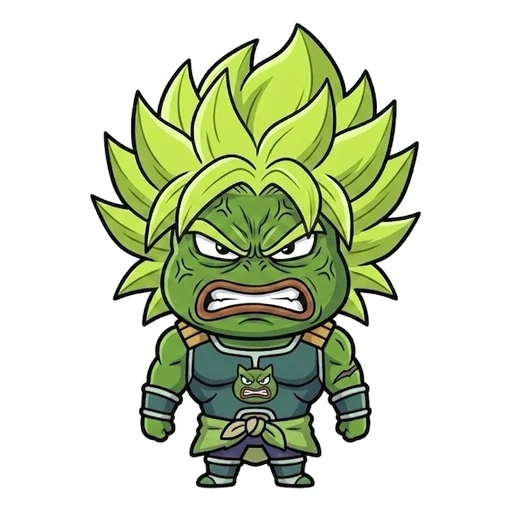
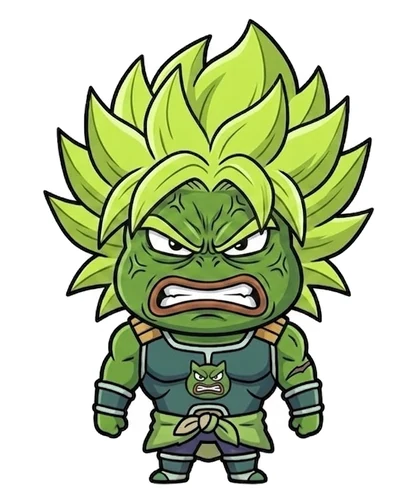
Add files via upload

diff --git a/index.html b/index.html
@@ -165,8 +165,8 @@ body.legendary .smash{color:#14260E}
   -webkit-user-select:all;user-select:all}
 
 /* fills the gap the tall nutrition label leaves in the left column */
-.inspector{margin-top:30px;max-width:250px}
-.inspector img{width:100%;height:auto;aspect-ratio:1;object-fit:contain;display:block}
+.inspector{margin-top:30px;max-width:285px}
+.inspector img{width:100%;height:auto;aspect-ratio:418/504;display:block}
 .inspector figcaption{font-family:'Space Mono',monospace;font-size:10px;line-height:1.5;
   letter-spacing:.1em;text-transform:uppercase;color:var(--floret);margin-top:8px}
 @media(max-width:760px){.inspector{margin:24px auto 0}}
@@ -180,7 +180,7 @@ body.legendary .smash{color:#14260E}
 .peel{display:grid;grid-template-columns:repeat(6,1fr);gap:10px}
 .peel figure{background:var(--paper);border:2px solid var(--line);border-radius:12px;
   padding:8px 6px 6px;text-align:center}
-.peel img{width:100%;height:auto;aspect-ratio:1;object-fit:contain;display:block}
+.peel img{width:100%;height:auto;aspect-ratio:418/504;display:block}
 .peel figcaption{font-family:'Space Mono',monospace;font-size:9px;line-height:1.3;
   letter-spacing:.08em;text-transform:uppercase;color:var(--floret);margin-top:5px}
 @media(max-width:760px){.peel{grid-template-columns:repeat(3,1fr);gap:8px}}
@@ -308,7 +308,7 @@ footer a{color:inherit}
       <p data-es="Sin impuestos. Sin preventa. Es una verdura, no un plan de negocios. La compra inicial de la creadora es la bolsa de premios — la dirección es pública y cada pago tiene comprobante.">No tax. No presale. It is a vegetable, not a business plan. The creator's buy at launch is the prize wallet — public address, receipts for every payout, nothing else comes out of it.</p>
       <p style="margin-top:14px" data-es="Todo lo que necesitas saber cabe en un costado del paquete, como debe ser.">Everything you need to know fits on the side of the package, the way it should.</p>
       <figure class="inspector">
-        <img src="broli-bored.webp" alt="Broli, unimpressed" loading="lazy" width="512" height="512">
+        <img src="broli-bored.webp" alt="Broli, unimpressed" loading="lazy" width="418" height="504">
         <figcaption data-es="Inspeccionado por él. No disfrutó nada de esto.">Inspected by him. He did not enjoy any of it.</figcaption>
       </figure>
     </div>
@@ -369,12 +369,12 @@ footer a{color:inherit}
       <span><a id="stickers" href="#" target="_blank" rel="noopener" data-es="Úsalas en el grupo">Use them in the group</a></span>
     </div>
     <div class="peel">
-      <figure><img src="broli-angry.webp" alt="Broli, furious" loading="lazy" width="512" height="512"><figcaption data-es="Lo vio">Sees it</figcaption></figure>
-      <figure><img src="broli-shocked.webp" alt="Broli, shocked" loading="lazy" width="512" height="512"><figcaption data-es="Rechinó">It squeaked</figcaption></figure>
-      <figure><img src="broli-crying.webp" alt="Broli, crying" loading="lazy" width="512" height="512"><figcaption data-es="Una mordida más">One more bite</figcaption></figure>
-      <figure><img src="broli-bored.webp" alt="Broli, unimpressed" loading="lazy" width="512" height="512"><figcaption data-es="Sigue ahí">Still there</figcaption></figure>
-      <figure><img src="broli-smug.webp" alt="Broli, smug" loading="lazy" width="512" height="512"><figcaption data-es="Lo tiró">Threw it out</figcaption></figure>
-      <figure><img src="broli-asleep.webp" alt="Broli, asleep" loading="lazy" width="512" height="512"><figcaption data-es="Después de cenar">Post-dinner</figcaption></figure>
+      <figure><img src="broli-angry.webp" alt="Broli, furious" loading="lazy" width="418" height="504"><figcaption data-es="Lo vio">Sees it</figcaption></figure>
+      <figure><img src="broli-shocked.webp" alt="Broli, shocked" loading="lazy" width="418" height="504"><figcaption data-es="Rechinó">It squeaked</figcaption></figure>
+      <figure><img src="broli-crying.webp" alt="Broli, crying" loading="lazy" width="418" height="504"><figcaption data-es="Una mordida más">One more bite</figcaption></figure>
+      <figure><img src="broli-bored.webp" alt="Broli, unimpressed" loading="lazy" width="418" height="504"><figcaption data-es="Sigue ahí">Still there</figcaption></figure>
+      <figure><img src="broli-smug.webp" alt="Broli, smug" loading="lazy" width="418" height="504"><figcaption data-es="Lo tiró">Threw it out</figcaption></figure>
+      <figure><img src="broli-asleep.webp" alt="Broli, asleep" loading="lazy" width="418" height="504"><figcaption data-es="Después de cenar">Post-dinner</figcaption></figure>
     </div>
   </div>
 </section>
